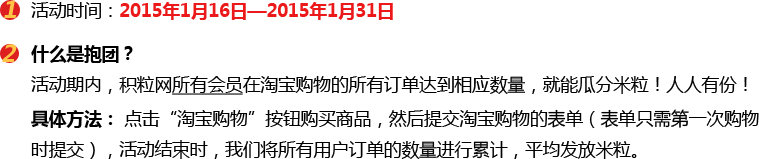
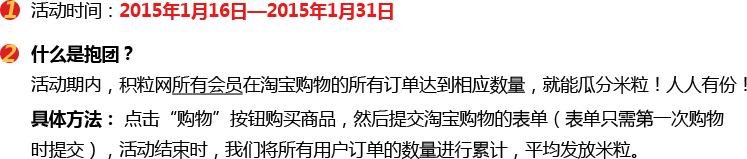
#618 首页效果

diff --git a/web/css/jl.ui.Jan.css b/web/css/jl.ui.Jan.css
@@ -12,16 +12,16 @@ a{text-decoration:none;color:#3399ff;}
 .topCon, .mainTopCon, .con{ width: 990px; margin: 0 auto;}
 .topCon{ height: 50px; overflow: hidden; margin-top: 5px;}
 .userInfo{ height: 50px; line-height: 50px; font-family: "宋体";}
-.main{ background-color: #dd1f1f;}
+.main{ background-color: #f61f1f;}
 .mainTop{ background: #df221e url(../images/january/bannerBg.jpg) no-repeat center; }
 .mainTopCon{ height: 542px; overflow: hidden;}
 .splitLv{ height: 542px; background: url(../images/january/bannerBg.png) no-repeat;}
 .splitLvCon{ position: relative; z-index: 1; width: 614px; padding-top: 155px; margin: 0 auto;}
 .splitLvImg{ text-align: center;}
-.splitLvTxt{ position: absolute; z-index: 1000; bottom: 113px; width: 100%; text-align: center; line-height: 45px; font-size: 15px; font-weight: bold;}
+.splitLvTxt{ position: absolute; z-index: 1000; bottom: 115px; width: 100%; text-align: center; line-height: 45px; font-size: 15px; font-weight: bold;}
 .splitLvTxt b, .splitLvTxt span, .splitLvTxt strong{ display: inline-block; *display: inline; *zoom: 1; vertical-align: middle;}
-.splitLvTxt b{ position: relative; z-index: 1; width: 22px; height: 33px; line-height: 33px; margin-right: 1px; margin-top: -2px; background-color: #000; border-radius: 3px; overflow: hidden;}
-.splitLvTxt b span{ position: absolute; z-index: 1000; top: 0; left: 0; width: 22px; height: 330px; background: url(../images/january/num.png) no-repeat;}
+.splitLvTxt b{ position: relative; z-index: 1; width: 22px; height: 30px; line-height: 30px; margin-right: 1px; margin-top: -4px; background-color: #000; border-radius: 3px; overflow: hidden;}
+.splitLvTxt b span{ position: absolute; z-index: 1000; top: 0; left: 0; width: 22px; height: 300px; background: url(../images/january/num.png) no-repeat;}
 .splitLvTxt strong{ color: #e00000; line-height: 37px;}
 .mainCon{ height: 667px; padding-top: 50px; background: #fbb51f url(../images/january/conBg.jpg) no-repeat top center;}
 .shoppingForm li{ position: relative; z-index: 1; line-height:30px;}
@@ -33,8 +33,9 @@ a{text-decoration:none;color:#3399ff;}
 .noDone h2{ height: 70px; line-height: 70px; color: #fff; font-size: 26px; font-weight: bold; padding-left: 80px;}
 .noDone .taobao{ width: 330px; margin-right: 95px;}
 .noDone .shopping{ width: 187px; margin-left: 13px; padding-top: 10px; padding-left: 67px; line-height: 30px; background-color: #fff;}
-.hasDone{ text-align: center; line-height: 35px; padding-bottom: 50px;}
-.hasDone .shoppingInfo{ color: #a14b00; text-decoration: underline; margin-left: 15px;}
+.hasDone{ text-align: center; line-height: 35px; padding-bottom: 15px;}
+.hasDone .messages-container{ font-family: "宋体"; font-size: 16px; font-weight: bold; }
+.hasDone .shoppingInfo{ color: #a14b00; font-size: 16px; text-decoration: underline; margin-left: 15px;}
 .btnWrapper{ text-align: center; padding-top: 5px;}
 .shopping a.shoppingInfo{ font-family: "宋体"; font-size: 12px; color: #ff0000; text-decoration: underline;}
 .shopping a.shoppingBtn, .orderCon .submitBtn{ width: 141px; height: 51px; display: inline-block; *display: inlien; *zoom: 1;}

diff --git a/web/css1408/jl.ui.common.css b/web/css1408/jl.ui.common.css
@@ -358,12 +358,12 @@ a.tencent{
 
 /* top banner */
 .indexTopbannerWrap{
-	background: #ffd400; 
+	background: #f61f1f; 
 	border-top: 1px solid #eaeae8;
 }
 .indexTopbanner{
 	width:100%;
-	height: 51px;
+	height: 55px;
 	position: relative;
 	z-index:2;
 }
@@ -372,8 +372,7 @@ a.tencent{
 }
 .indexTopbanner a.allPointer{
 	width: 100%;
-	height: 51px;
-	background: url(../images1408/baoXiangBanner.jpg) no-repeat center;
+	height: 55px;
 }
 .indexTopbanner .rule{
 	width: 1000px;
@@ -381,55 +380,27 @@ a.tencent{
 	z-index: 1000;
 	top: 0;
 	left: 50%;
+	height: 55px;
 	margin-left: -500px;
+	background: url(../images/january/bannergif.gif) no-repeat;
 }
 .ruleLink{width: 1000px;
 	position: absolute;
 	z-index: 1998;
 	top: 0;
 	left: 50%;
-	height: 51px;
+	height: 55px;
 	margin-left: -500px;}
-.ruleCon{ position: relative; z-index:1998; float: right; height: 45px;}
+.splitLvTxt{ position: absolute; z-index: 1000; top: 10px; right: 30px; width: 310px; text-align: center; height: 35px; line-height: 35px; color: #fff; font-size: 14px; font-weight:bold; font-family: "微软雅黑";}
+.splitLvTxt b, .splitLvTxt span, .splitLvTxt strong{ display: inline-block; *display: inline; *zoom: 1; vertical-align: middle;}
+.splitLvTxt b{ position: relative; z-index: 1; width: 22px; height: 30px; line-height: 30px; margin-right: 1px; margin-top: -8px; background-color: #000; border-radius: 3px; overflow: hidden;}
+.splitLvTxt b span{ position: absolute; z-index: 1000; top: 0px; left: 0; width: 22px; height: 300px; background: url(../images/january/num.png) no-repeat;}
+.splitLvTxt strong{ color: #e00000; line-height: 37px;}
+.commander{ position: absolute; z-index: 1000; top: -15px; left: 50%; margin-left: 17px;}
 .indexTopbanner .rule a.rulePic{
 	width: 69px;
 	height: 45px;
 	background: url(../images1408/baoXiangRule.png) no-repeat top center;
-}
-.indexTopbanner .ruleDetail{
-	position: absolute;
-	z-index: 9999;
-	top: 43px;
-	right: 0;
-	width: 240px;
-	padding: 10px 15px;
-	background-color: #fffae3; 
-	color: #333;
-	border-radius: 3px;
-	box-shadow: 0px 1px 3px rgba(0, 0, 0, 0.3);
-	padding: 12px 15px 18px;
-	display: none;	
-}
-.indexTopbanner .ruleDetail .textLink, .indexTopbanner .ruleDetail .tips{
-	color: #f23b1b;
-}
-.indexTopbanner .ruleDetail .textLink{
-	display: inline;
-	text-decoration: underline;
-}
-.indexTopbanner .ruleDetail p{
-	line-height: 25px;
-}
-.indexTopbanner .ruleDetail .tips{
-	text-align: left;
-	padding-left: 5px;
-}
-.indexTopbanner .ruleDetail li{
-	float: left;
-	width: 115px;
-	padding-left: 5px;
-	text-align: left;
-	line-height: 20px;
 }
 .indexTopbannerFold,.indexTopbannerUnfold {
 	width: 17px;

diff --git a/web/js1408/jl.ui.jan.js b/web/js1408/jl.ui.jan.js
@@ -1,7 +1,6 @@
 /**
  * Created by wangliting on 14-12-1.
  */
-
 $(function(){
 	$.ajax({
 		url: Routing.generate('jili_api_monthactivity_gatheringtaobaoordercount'),
@@ -22,7 +21,7 @@ $(function(){
 (function($){
     //页面加载完毕时数字滚动到位
 	var defaults = {
-		digitH : 33,
+		digitH : 30,
         num: 235,
         animateTimer: 2000
     };
@@ -35,12 +34,12 @@ $(function(){
 			needNum = parseInt(2000-opts.num);
 			$('.splitLvImg').html('<img src="/images/january/lv2.png" width="554" height="387" />');
 			$(obj).find('strong').html('<img src="/images/january/lv2Txt.png" width="104" height="37" />');
-			$(obj).css({ bottom: '183px'});
+			$(obj).css({ bottom: '185px'});
 		}else if(opts.num>=2000&&opts.num<3000){
 			needNum = parseInt(3000-opts.num);
 			$('.splitLvImg').html('<img src="/images/january/lv3.png" width="614" height="387" />');
 			$(obj).find('strong').html('<img src="/images/january/lv3Txt.png" width="99" height="37" />');
-			$(obj).css({ bottom: '253px'});
+			$(obj).css({ bottom: '255px'});
 		}else{
 			needNum = 0;
 			$('.splitLvImg').html('<img src="/images/january/clearance.png" width="614" height="387" />');
